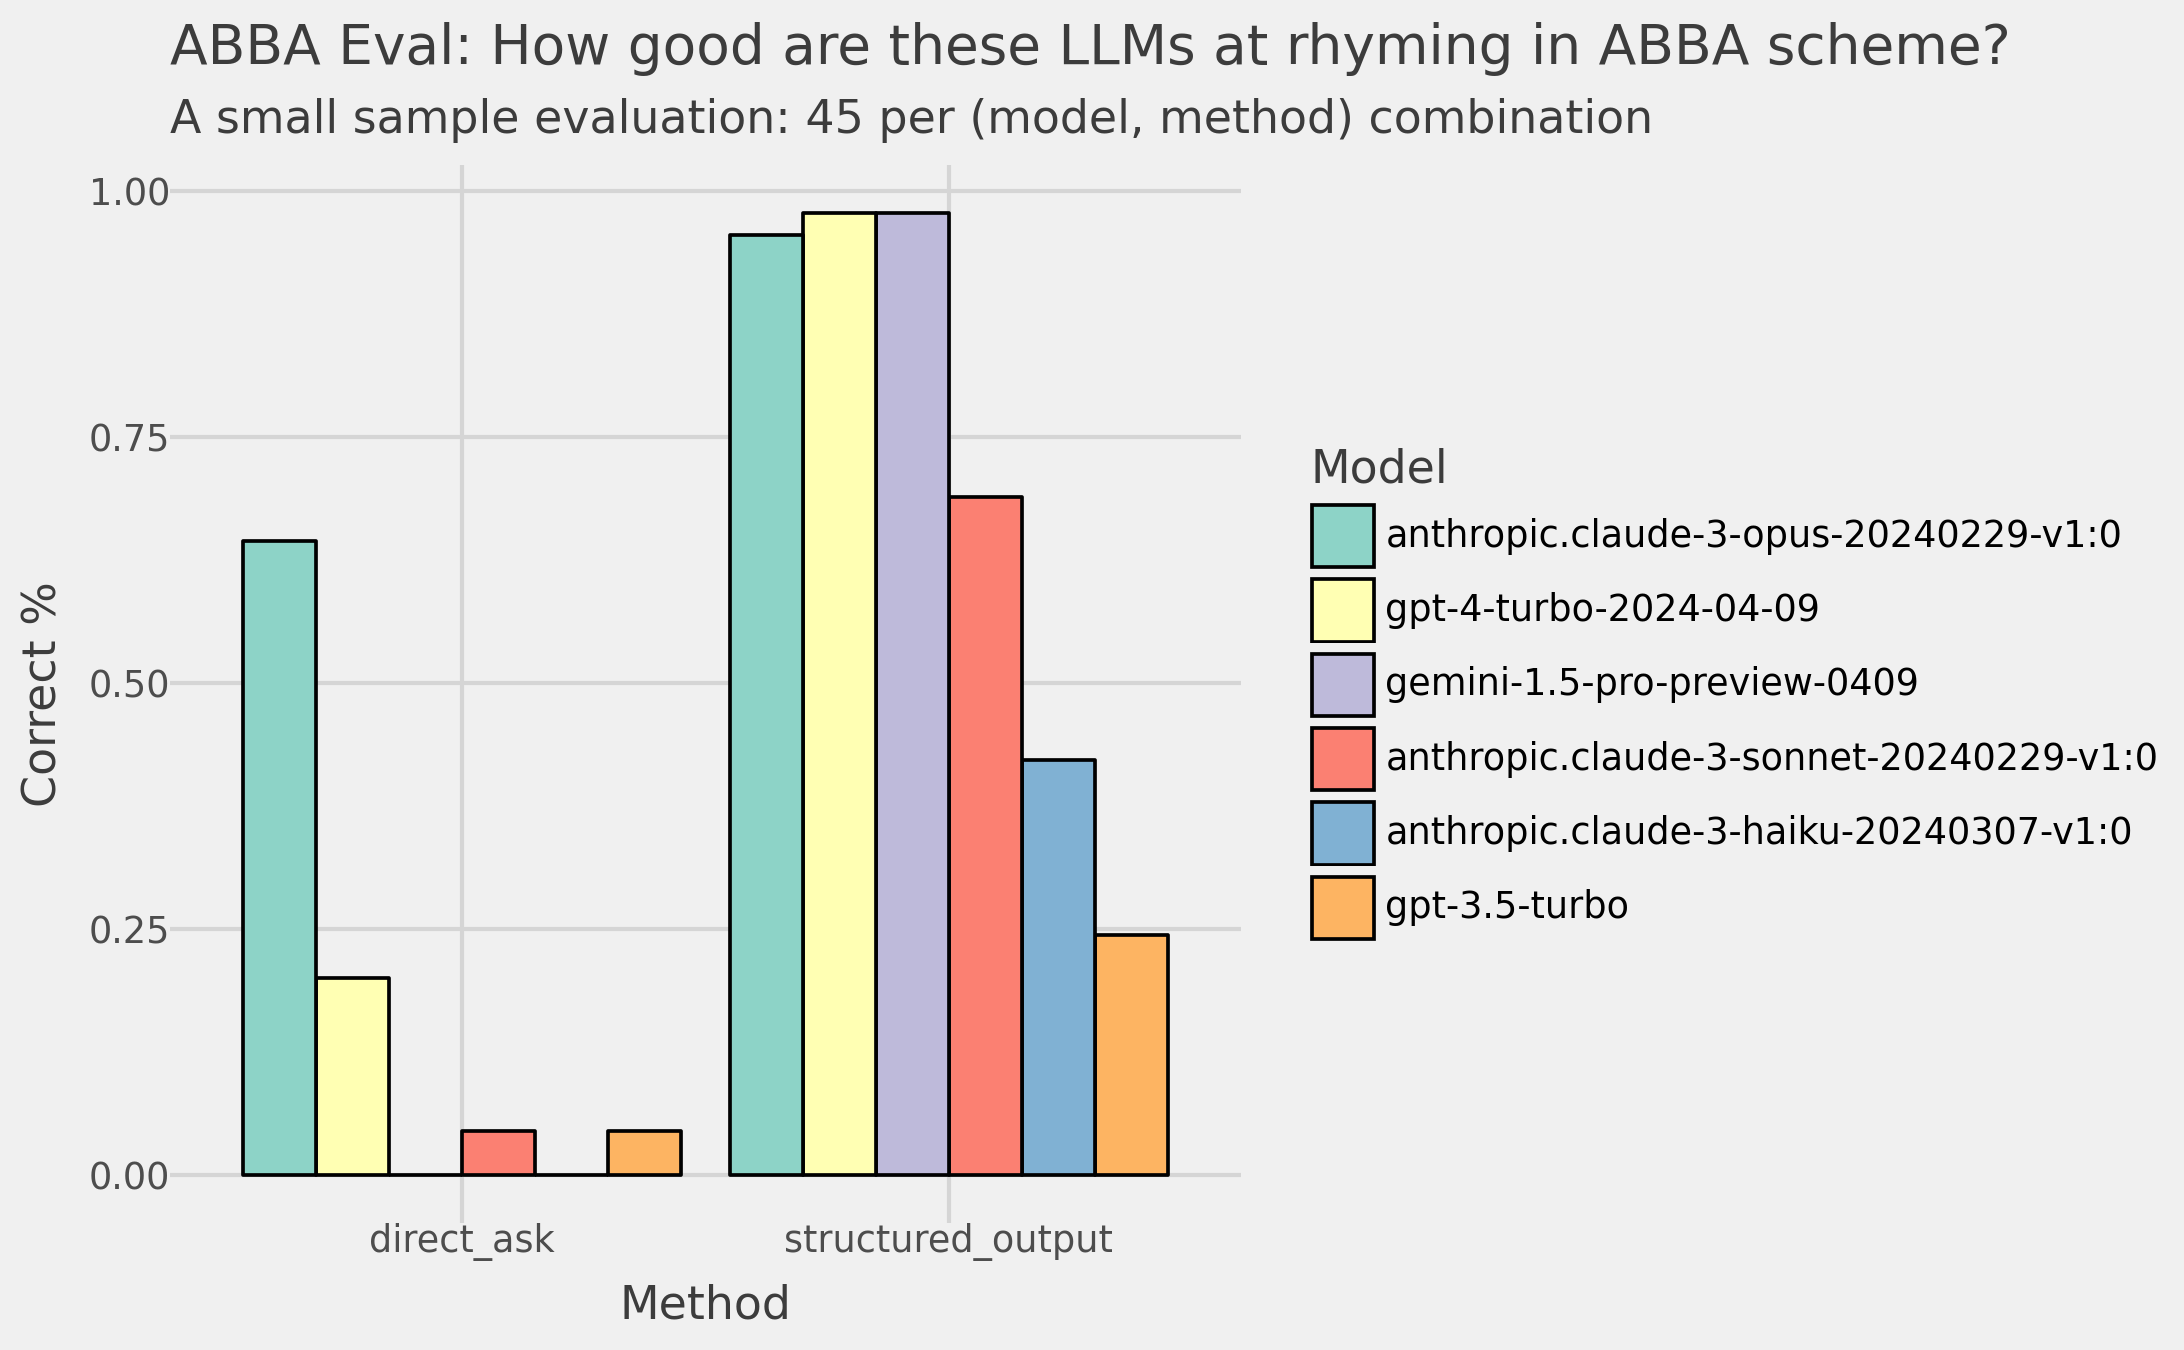
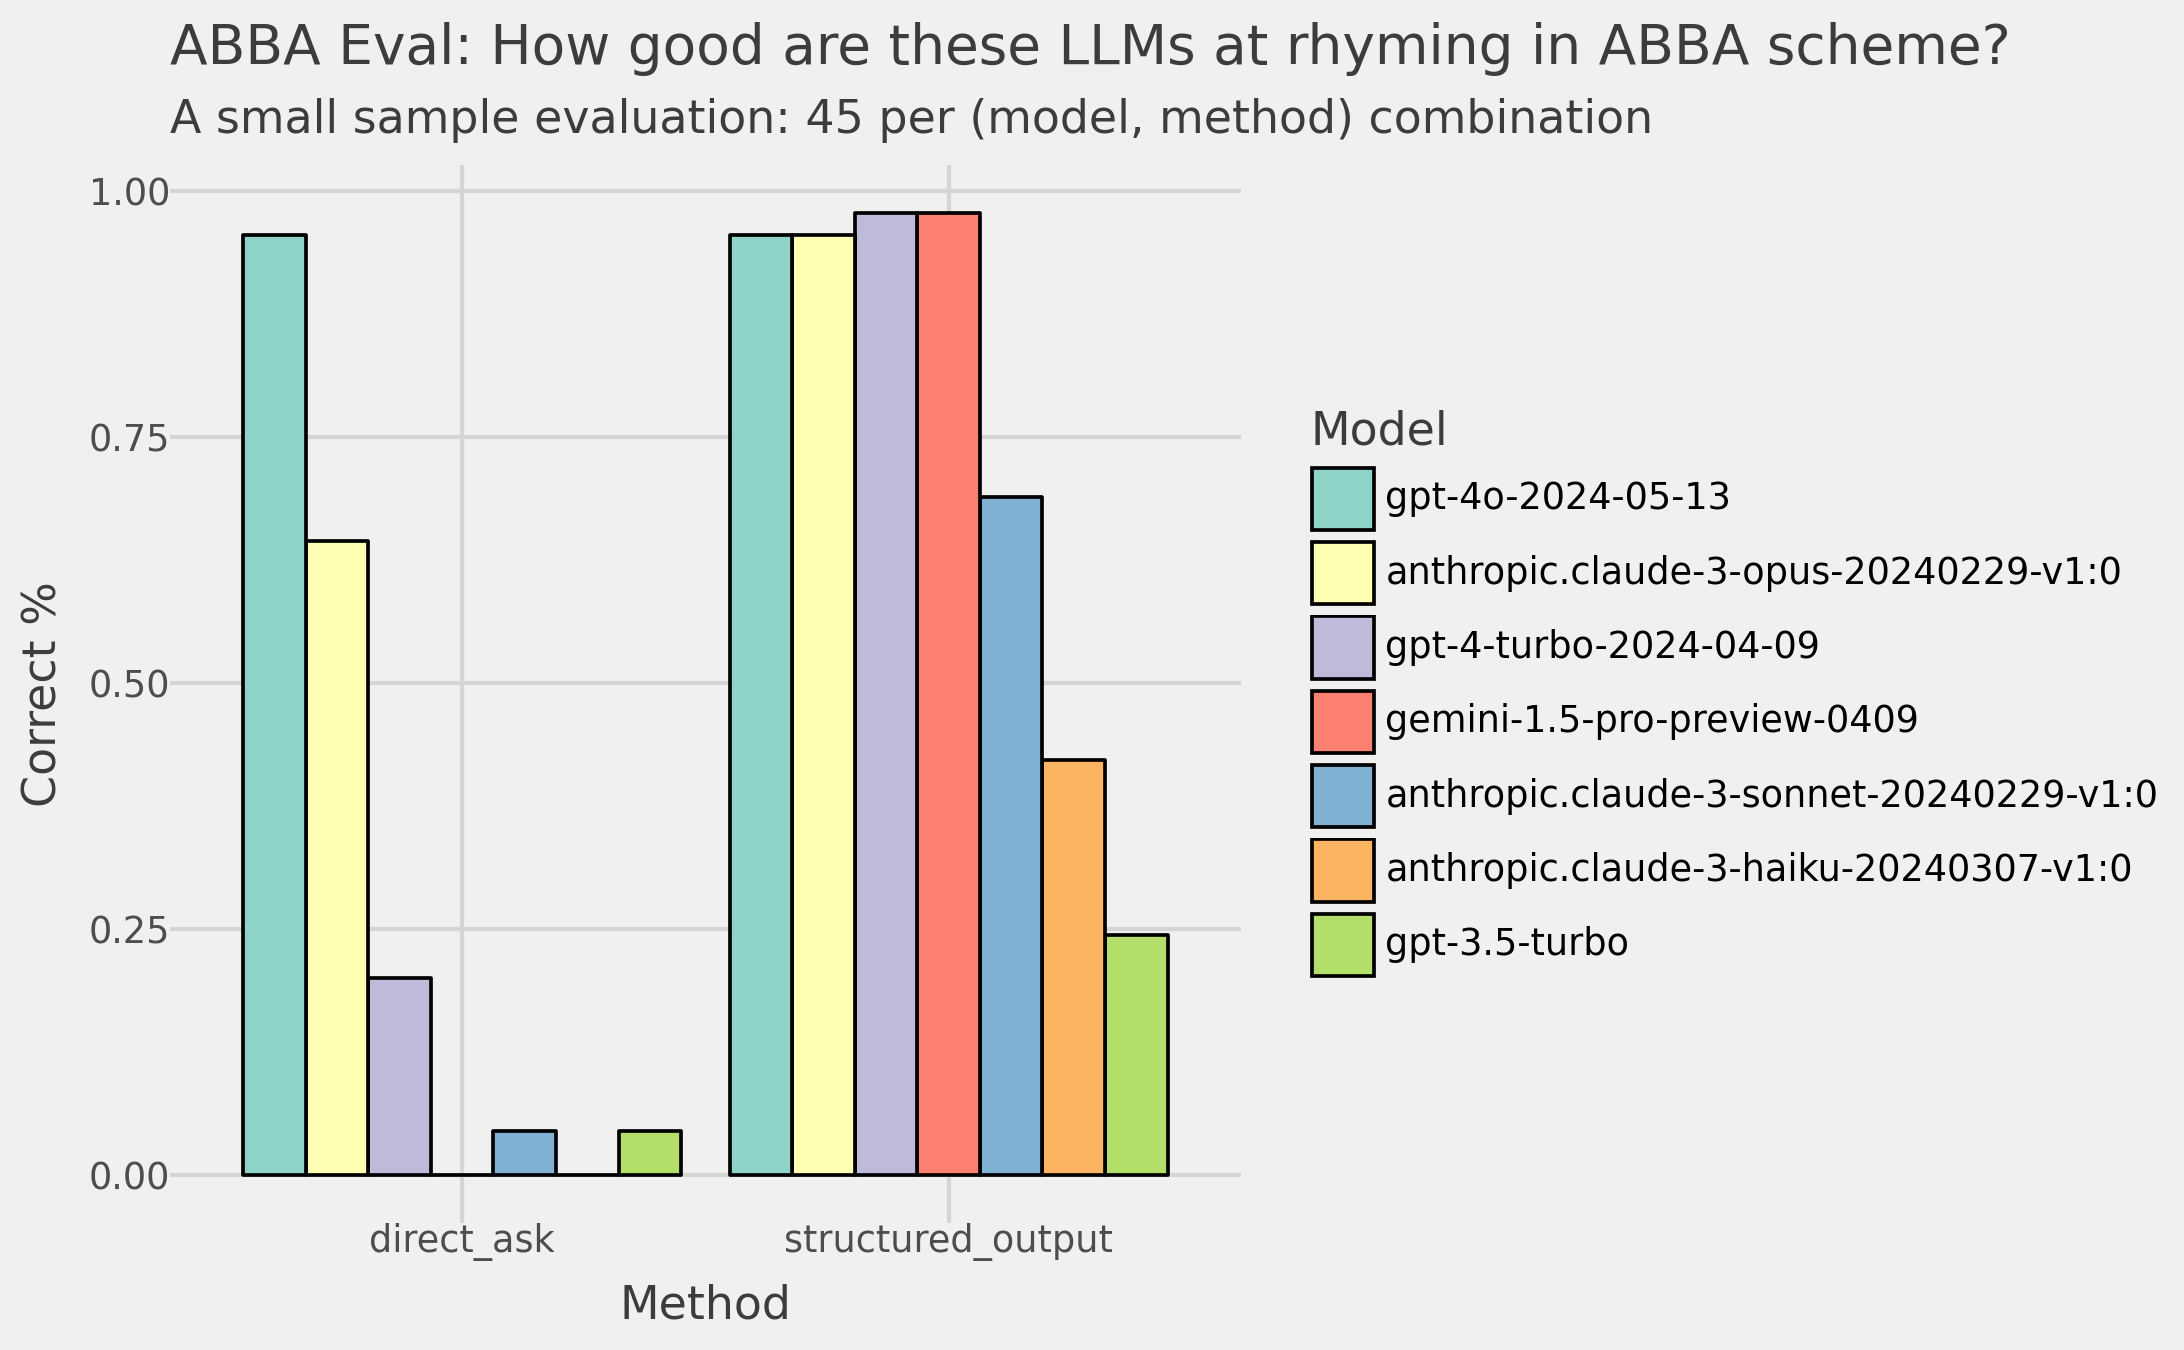
add gpt-4o

Changed region(s): [[0.3425, 0.1556, 0.5604, 0.8711], [0.5916, 0.3111, 0.9963, 0.7467], [0.0934, 0.1556, 0.3114, 0.8711]]

diff --git a/README.md b/README.md
@@ -4,6 +4,9 @@ This repo showcases a simple (and silly?) LLM eval:
 
 > Can the LLM generate a four line poem that follows the ABBA rhyme scheme?
 
+## Results
+
+![](https://github.com/rensdimmendaal/abba_eval/blob/main/output/results.png?raw=true)
 ## Background
 
 The ABBA rhyme scheme is a four-line poem where the first and last lines rhyme, and the second and third lines rhyme. 
